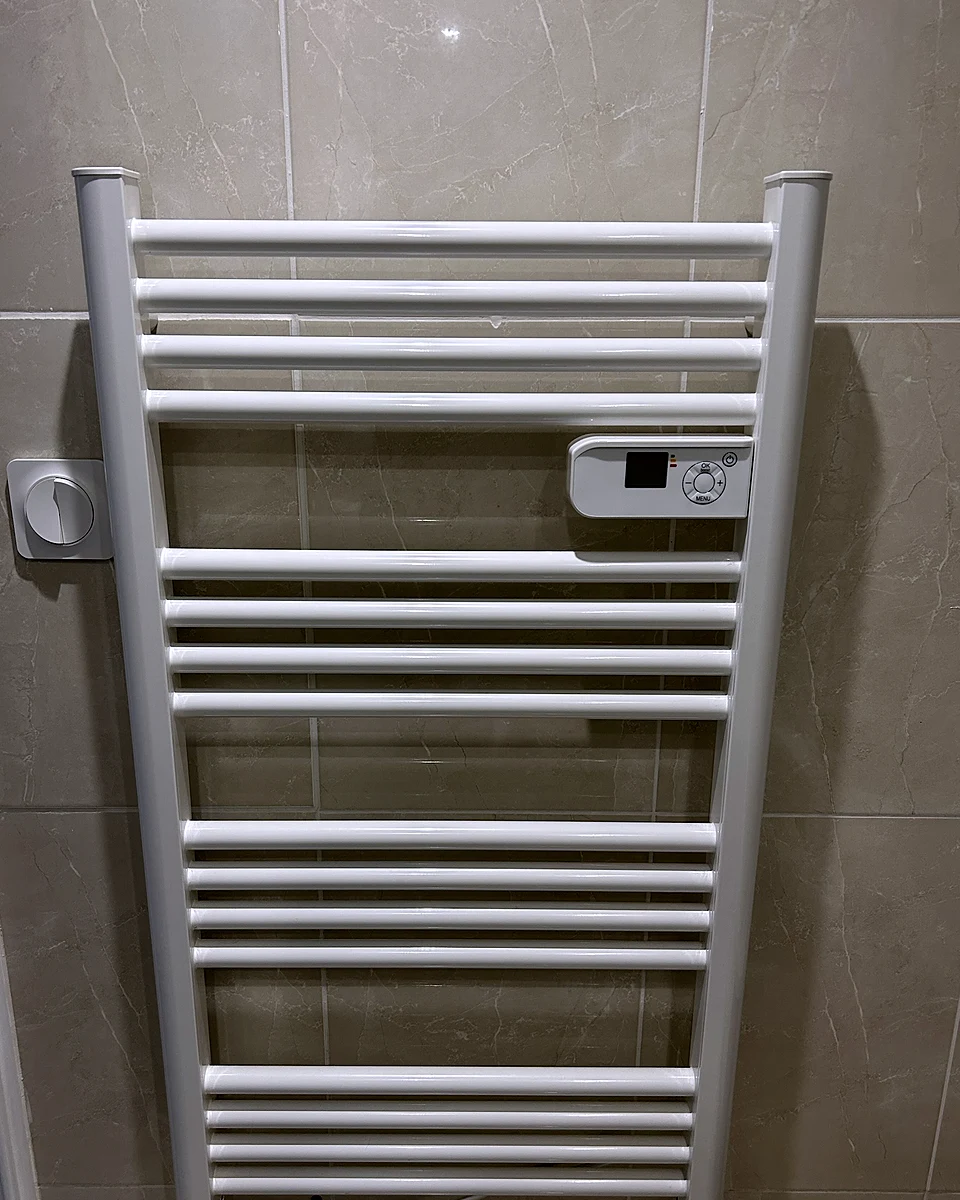
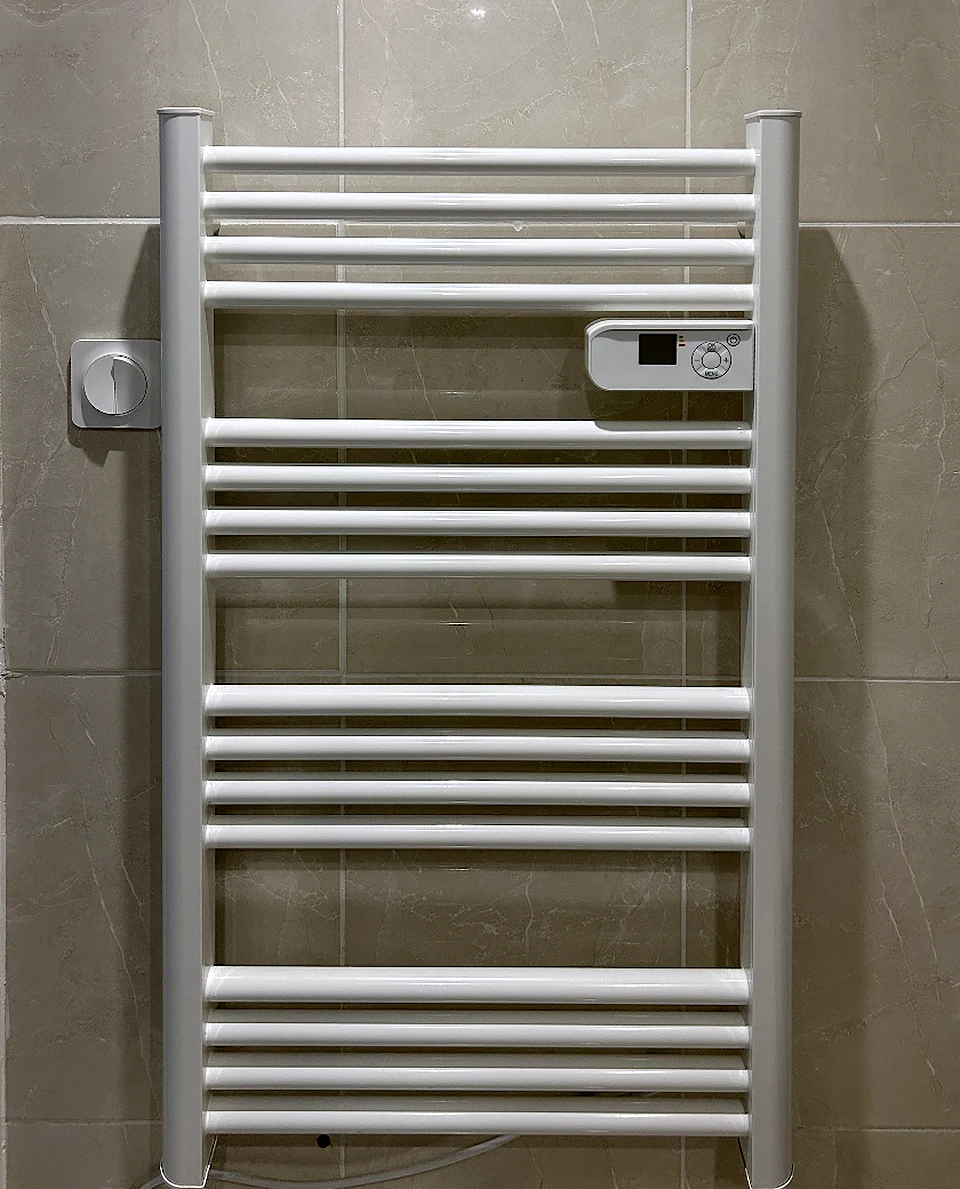
Sèche-serviette : photo redressée et retouchée
Claude-Session: https://claude.ai/code/session_01Ebj4H1RNzxuy3rhGoPVFxH

diff --git a/public/seche-serviette-cannes/index.html b/public/seche-serviette-cannes/index.html
@@ -1,3 +1,3 @@
 <!DOCTYPE html><html lang="fr">
-<head><meta charset="utf-8"><meta name="viewport" content="width=device-width,initial-scale=1,viewport-fit=cover"><title>Sèche-serviette électrique à Cannes : pose dès 120 € | Azur Volt</title><meta name="description" content="Pose de sèche-serviette électrique à Cannes : dès 120 € raccordement compris pour un appareil que vous fournissez. Vérification du circuit par Yoni."><meta name="theme-color" content="#051d31"><link rel="icon" href="/favicon.ico" sizes="any"><link rel="icon" type="image/png" sizes="32x32" href="/favicon-32.png"><link rel="icon" type="image/png" sizes="16x16" href="/favicon-16.png"><link rel="apple-touch-icon" href="/apple-touch-icon.png"><link rel="manifest" href="/site.webmanifest"><link rel="canonical" href="https://azurvolt.fr/seche-serviette-cannes/"><meta property="og:type" content="website"><meta property="og:locale" content="fr_FR"><meta property="og:site_name" content="Azur Volt"><meta property="og:title" content="Sèche-serviette électrique à Cannes : pose dès 120 € | Azur Volt"><meta property="og:description" content="Pose de sèche-serviette électrique à Cannes : dès 120 € raccordement compris pour un appareil que vous fournissez. Vérification du circuit par Yoni."><meta property="og:url" content="https://azurvolt.fr/seche-serviette-cannes/"><meta property="og:image" content="https://azurvolt.fr/social-preview-azur-volt.jpg"><meta property="og:image:width" content="1200"><meta property="og:image:height" content="630"><meta property="og:image:type" content="image/jpeg"><meta name="twitter:card" content="summary_large_image"><meta name="twitter:image" content="https://azurvolt.fr/social-preview-azur-volt.jpg"><link rel="preload" href="/fonts/bricolage-grotesque.woff" as="font" type="font/woff" crossorigin><link rel="preload" href="/fonts/figtree.woff" as="font" type="font/woff" crossorigin><link rel="stylesheet" href="/styles.css?v=15.2"><script type="application/ld+json">{"@context": "https://schema.org", "@type": "Electrician", "@id": "https://azurvolt.fr/#electrician", "name": "Azur Volt", "legalName": "Yoni Ayache", "url": "https://azurvolt.fr/", "logo": "https://azurvolt.fr/logo-azur-volt-google.jpg", "image": "https://azurvolt.fr/social-preview-azur-volt.jpg", "telephone": "+33651999517", "email": "contact@azurvolt.fr", "address": {"@type": "PostalAddress", "streetAddress": "22 avenue des Anglais", "postalCode": "06400", "addressLocality": "Cannes", "addressRegion": "Provence-Alpes-Côte d’Azur", "addressCountry": "FR"}, "priceRange": "Dépannage dès 110 €", "founder": {"@type": "Person", "name": "Yoni Ayache"}, "areaServed": [{"@type": "City", "name": "Cannes"}, {"@type": "City", "name": "Le Cannet"}, {"@type": "City", "name": "Antibes"}, {"@type": "City", "name": "Mandelieu-la-Napoule"}], "openingHoursSpecification": [{"@type": "OpeningHoursSpecification", "dayOfWeek": ["Monday", "Tuesday", "Wednesday", "Thursday", "Friday", "Saturday", "Sunday"], "opens": "08:00", "closes": "22:00"}], "sameAs": ["https://share.google/EnFr0ZRKQmdXLwL5v", "https://www.instagram.com/azurvolt/", "https://www.pagesjaunes.fr/pros/65432205"]}</script><script src="/script.js?v=15.0" defer=""></script><script type="application/ld+json">{"@context": "https://schema.org", "@type": "BreadcrumbList", "itemListElement": [{"@type": "ListItem", "position": 1, "name": "Accueil", "item": "https://azurvolt.fr/"}, {"@type": "ListItem", "position": 2, "name": "Sèche-serviette électrique à Cannes", "item": "https://azurvolt.fr/seche-serviette-cannes/"}]}</script></head><body id="top"><a class="skip" href="#main">Aller au contenu</a><div class="wire" aria-hidden="true"><i id="wire"></i></div><div class="topline"><div class="wrap"><span>Cannes et alentours, particuliers et professionnels</span><span>Dépannage et urgences 7j/7 de 8h à 22h, nuit selon disponibilité</span></div></div><header class="header"><div class="wrap nav"><a class="brand" href="/"><img src="/logo-blanc-120.png" srcset="/logo-blanc-120.png 1x, /logo-blanc%402x.png 2x" alt="Azur Volt, électricien à Cannes" width="232" height="120" fetchpriority="high"></a><nav class="desktop" aria-label="Navigation principale"><a href="/">Accueil</a><details class="nav-dropdown"><summary>Prestations</summary><div><a href="/depannage-electrique-cannes/">Dépannage électrique</a><a href="/tableau-electrique-cannes/">Tableau électrique</a><a href="/renovation-electrique-cannes/">Rénovation électrique</a><a href="/installation-electrique-cannes/">Installation électrique</a><a href="/seche-serviette-cannes/">Prises &amp; interrupteurs</a><a href="/eclairage-luminaire-cannes/">Éclairage &amp; luminaires</a><a href="/seche-serviette-cannes/">Sèche-serviette</a><a href="/mise-en-securite-electrique-cannes/">Mise en sécurité</a><a href="/gache-electrique-cannes/">Gâche électrique</a></div></details><details class="nav-dropdown"><summary>Secteur</summary><div><a href="/electricien-cannes/">Cannes</a><a href="/electricien-le-cannet/">Le Cannet</a><a href="/electricien-antibes/">Antibes</a><a href="/electricien-mandelieu-la-napoule/">Mandelieu-la-Napoule</a><a href="/zones-intervention/">Toutes les zones</a></div></details><a href="/tarifs/">Tarifs</a><a href="/#contact">Contact</a></nav><a class="header-phone" href="tel:+33651999517" aria-label="Appeler Yoni au 06 51 99 95 17"><svg aria-hidden="true" viewBox="0 0 24 24" fill="none" stroke="currentColor" stroke-width="1.7" stroke-linecap="round" stroke-linejoin="round"><path d="M22 16.9v3a2 2 0 0 1-2.2 2 19.8 19.8 0 0 1-8.6-3.1 19.5 19.5 0 0 1-6-6 19.8 19.8 0 0 1-3.1-8.7A2 2 0 0 1 4.1 2h3a2 2 0 0 1 2 1.7c.1 1 .4 2 .7 2.9a2 2 0 0 1-.5 2.1L8 10a16 16 0 0 0 6 6l1.3-1.3a2 2 0 0 1 2.1-.5c.9.3 1.9.6 2.9.7a2 2 0 0 1 1.7 2z"></path></svg><span>06 51 99 95 17</span></a><details class="mobile-menu"><summary aria-label="Ouvrir le menu"><svg aria-hidden="true" viewBox="0 0 24 24" fill="none" stroke="currentColor" stroke-width="1.7" stroke-linecap="round" stroke-linejoin="round"><path d="M4 6h16M4 12h16M4 18h16"></path></svg><span>Menu</span></summary><nav aria-label="Navigation mobile"><a href="/">Accueil</a><details class="nav-dropdown"><summary>Prestations</summary><div><a href="/depannage-electrique-cannes/">Dépannage électrique</a><a href="/tableau-electrique-cannes/">Tableau électrique</a><a href="/renovation-electrique-cannes/">Rénovation électrique</a><a href="/installation-electrique-cannes/">Installation électrique</a><a href="/seche-serviette-cannes/">Prises &amp; interrupteurs</a><a href="/eclairage-luminaire-cannes/">Éclairage &amp; luminaires</a><a href="/seche-serviette-cannes/">Sèche-serviette</a><a href="/mise-en-securite-electrique-cannes/">Mise en sécurité</a><a href="/gache-electrique-cannes/">Gâche électrique</a></div></details><details class="nav-dropdown"><summary>Secteur</summary><div><a href="/electricien-cannes/">Cannes</a><a href="/electricien-le-cannet/">Le Cannet</a><a href="/electricien-antibes/">Antibes</a><a href="/electricien-mandelieu-la-napoule/">Mandelieu-la-Napoule</a><a href="/zones-intervention/">Toutes les zones</a></div></details><a href="/tarifs/">Tarifs</a><a href="/#contact">Contact</a></nav></details></div></header><main id="main"><section class="subhero"><div class="wrap"><nav class="breadcrumb" aria-label="Fil d’Ariane"><a href="/">Accueil</a> / Sèche-serviette électrique à Cannes</nav><h1>Sèche-serviette électrique à Cannes</h1><p class="lead">Un vieux sèche-serviette à remplacer, ou un nouveau à installer ? Yoni vérifie le circuit, pose l’appareil et le raccorde.</p><div class="actions"><a class="button primary" href="tel:+33651999517">Appeler Yoni</a><a class="button secondary" href="sms:+33651999517">Envoyer un SMS</a><a class="button secondary" href="/#contact">Devis avec photo</a></div><figure class="subhero-photo"><img src="/seche-serviette-960.webp" width="960" height="1200" loading="lazy" decoding="async" alt="Sèche-serviette électrique posé par Yoni Ayache dans une salle de bain"></figure></div></section><section class="section"><div class="wrap detail-grid"><div class="detail-content"><section class="content-section"><h2>Pose et remplacement</h2><p>La pose d’un sèche-serviette électrique que vous fournissez coûte <strong>dès 120 €</strong>, raccordement compris, si le circuit existant le permet.</p><p>Une création de ligne ou une modification importante de l’installation fait l’objet d’un devis.</p></section><section class="content-section"><h2>Vos questions</h2><div class="faq-list"><details><summary>Peut-on le poser dans n’importe quelle salle de bain ?<span aria-hidden="true">+</span></summary><p>Cela dépend de l’emplacement et de l’installation existante. Yoni le vérifie avant d’intervenir.</p></details><details><summary>Dois-je fournir l’appareil ?<span aria-hidden="true">+</span></summary><p>Le tarif dès 120 € concerne un appareil que vous fournissez. Pour que Yoni s’en charge, demandez un devis avec photo.</p></details></div></section><section class="content-section"><h2>Pour aller plus loin</h2><div class="related-links"><a href="/prise-interrupteur-cannes/">Prises et interrupteurs</a><a href="/installation-electrique-cannes/">Installation électrique</a><a href="/mise-en-securite-electrique-cannes/">Mise en sécurité</a><a href="/tarifs/">Tous les tarifs</a></div></section></div><aside class="service-aside"><h2>Parlez à Yoni</h2><p>Yoni Ayache, CAP Électricien, 14 ans d’expérience dans l’électricité.</p><a class="button primary" href="tel:+33651999517">06 51 99 95 17</a><p><a href="mailto:contact@azurvolt.fr">contact@azurvolt.fr</a></p><p>Dépannage et urgences 7j/7 de 8h à 22h, nuit selon disponibilité</p></aside></div></section></main><footer class="footer"><div class="wrap"><div class="footer-top"><div><a class="footer-brand" href="/"><img src="/logo-blanc-120.png" srcset="/logo-blanc-120.png 1x, /logo-blanc%402x.png 2x" alt="Azur Volt, électricien à Cannes" width="232" height="120" loading="lazy" decoding="async"></a><p>Un électricien. Un interlocuteur.</p></div><div><span class="footer-cta">On en parle ?</span><a class="footer-number" href="tel:+33651999517">06 51 99 95 17</a><p>Yoni Ayache, 7j/7 de 8h à 22h, nuit selon disponibilité</p></div></div><div class="footer-grid"><div><h2>Contact direct</h2><a href="sms:+33651999517">Envoyer un SMS</a><a href="mailto:contact@azurvolt.fr">contact@azurvolt.fr</a><a href="/#contact">Demande avec photo</a></div><div><h2>Vos besoins</h2><a href="/tarifs/">Tarifs</a><a href="/depannage-electrique-cannes/">Dépannage électrique</a><a href="/tableau-electrique-cannes/">Tableau électrique</a><a href="/installation-electrique-cannes/">Installation électrique</a><a href="/renovation-electrique-cannes/">Rénovation électrique</a></div><div><h2>Autour de Cannes</h2><a href="/electricien-cannes/">Électricien à Cannes</a><a href="/electricien-le-cannet/">Électricien au Cannet</a><a href="/electricien-antibes/">Électricien à Antibes</a><a href="/electricien-mandelieu-la-napoule/">Électricien à Mandelieu-la-Napoule</a><a href="/zones-intervention/">Toutes les zones</a><span>Interventions à domicile et sur site</span></div><div><h2>Azur Volt</h2><span>Yoni Ayache, entrepreneur individuel</span><span>SIRET 100 179 159 00015</span><a href="https://share.google/EnFr0ZRKQmdXLwL5v" target="_blank" rel="noopener noreferrer">Voir la fiche Google<span class="sr-only"> (nouvel onglet)</span></a><a href="https://www.instagram.com/azurvolt/" target="_blank" rel="noopener noreferrer">Instagram<span class="sr-only"> (nouvel onglet)</span></a><a href="https://www.pagesjaunes.fr/pros/65432205" target="_blank" rel="noopener noreferrer">Pages Jaunes<span class="sr-only"> (nouvel onglet)</span></a></div></div><div class="footer-bottom"><span>© 2026 Azur Volt</span><nav class="footer-legal" aria-label="Informations légales"><a href="/mentions-legales/">Mentions légales</a><a href="/confidentialite/">Confidentialité</a><a href="/cookies/">Cookies</a><a href="/conditions-utilisation/">Conditions d’utilisation</a><a href="/conditions-de-vente/">Conditions de vente et rétractation</a><button type="button" class="cookie-manage" data-consent-open>Gérer les cookies</button></nav><a href="#top">Retour en haut</a></div></div></footer><nav class="mobile-actions" aria-label="Contact rapide"><a class="button primary" href="tel:+33651999517"><svg aria-hidden="true" viewBox="0 0 24 24" fill="none" stroke="currentColor" stroke-width="1.7" stroke-linecap="round" stroke-linejoin="round"><path d="M22 16.9v3a2 2 0 0 1-2.2 2 19.8 19.8 0 0 1-8.6-3.1 19.5 19.5 0 0 1-6-6 19.8 19.8 0 0 1-3.1-8.7A2 2 0 0 1 4.1 2h3a2 2 0 0 1 2 1.7c.1 1 .4 2 .7 2.9a2 2 0 0 1-.5 2.1L8 10a16 16 0 0 0 6 6l1.3-1.3a2 2 0 0 1 2.1-.5c.9.3 1.9.6 2.9.7a2 2 0 0 1 1.7 2z"></path></svg><span>Appeler</span></a><a class="button secondary" href="sms:+33651999517"><svg aria-hidden="true" viewBox="0 0 24 24" fill="none" stroke="currentColor" stroke-width="1.7" stroke-linecap="round" stroke-linejoin="round"><path d="M21 11.5a8.4 8.4 0 0 1-.9 3.8 8.5 8.5 0 0 1-7.6 4.7 8.4 8.4 0 0 1-3.8-.9L3 21l1.9-5.7a8.4 8.4 0 0 1-.9-3.8 8.5 8.5 0 0 1 4.7-7.6 8.4 8.4 0 0 1 3.8-.9h.5a8.5 8.5 0 0 1 8 8v.5z"></path></svg><span>SMS</span></a><a class="button secondary" href="/#contact"><svg aria-hidden="true" viewBox="0 0 24 24" fill="none" stroke="currentColor" stroke-width="1.7" stroke-linecap="round" stroke-linejoin="round"><path d="M14.5 4h-5L7 7H3v13h18V7h-4z"></path><circle cx="12" cy="13" r="3"></circle></svg><span>Devis / photo</span></a></nav></body>
+<head><meta charset="utf-8"><meta name="viewport" content="width=device-width,initial-scale=1,viewport-fit=cover"><title>Sèche-serviette électrique à Cannes : pose dès 120 € | Azur Volt</title><meta name="description" content="Pose de sèche-serviette électrique à Cannes : dès 120 € raccordement compris pour un appareil que vous fournissez. Vérification du circuit par Yoni."><meta name="theme-color" content="#051d31"><link rel="icon" href="/favicon.ico" sizes="any"><link rel="icon" type="image/png" sizes="32x32" href="/favicon-32.png"><link rel="icon" type="image/png" sizes="16x16" href="/favicon-16.png"><link rel="apple-touch-icon" href="/apple-touch-icon.png"><link rel="manifest" href="/site.webmanifest"><link rel="canonical" href="https://azurvolt.fr/seche-serviette-cannes/"><meta property="og:type" content="website"><meta property="og:locale" content="fr_FR"><meta property="og:site_name" content="Azur Volt"><meta property="og:title" content="Sèche-serviette électrique à Cannes : pose dès 120 € | Azur Volt"><meta property="og:description" content="Pose de sèche-serviette électrique à Cannes : dès 120 € raccordement compris pour un appareil que vous fournissez. Vérification du circuit par Yoni."><meta property="og:url" content="https://azurvolt.fr/seche-serviette-cannes/"><meta property="og:image" content="https://azurvolt.fr/social-preview-azur-volt.jpg"><meta property="og:image:width" content="1200"><meta property="og:image:height" content="630"><meta property="og:image:type" content="image/jpeg"><meta name="twitter:card" content="summary_large_image"><meta name="twitter:image" content="https://azurvolt.fr/social-preview-azur-volt.jpg"><link rel="preload" href="/fonts/bricolage-grotesque.woff" as="font" type="font/woff" crossorigin><link rel="preload" href="/fonts/figtree.woff" as="font" type="font/woff" crossorigin><link rel="stylesheet" href="/styles.css?v=15.2"><script type="application/ld+json">{"@context": "https://schema.org", "@type": "Electrician", "@id": "https://azurvolt.fr/#electrician", "name": "Azur Volt", "legalName": "Yoni Ayache", "url": "https://azurvolt.fr/", "logo": "https://azurvolt.fr/logo-azur-volt-google.jpg", "image": "https://azurvolt.fr/social-preview-azur-volt.jpg", "telephone": "+33651999517", "email": "contact@azurvolt.fr", "address": {"@type": "PostalAddress", "streetAddress": "22 avenue des Anglais", "postalCode": "06400", "addressLocality": "Cannes", "addressRegion": "Provence-Alpes-Côte d’Azur", "addressCountry": "FR"}, "priceRange": "Dépannage dès 110 €", "founder": {"@type": "Person", "name": "Yoni Ayache"}, "areaServed": [{"@type": "City", "name": "Cannes"}, {"@type": "City", "name": "Le Cannet"}, {"@type": "City", "name": "Antibes"}, {"@type": "City", "name": "Mandelieu-la-Napoule"}], "openingHoursSpecification": [{"@type": "OpeningHoursSpecification", "dayOfWeek": ["Monday", "Tuesday", "Wednesday", "Thursday", "Friday", "Saturday", "Sunday"], "opens": "08:00", "closes": "22:00"}], "sameAs": ["https://share.google/EnFr0ZRKQmdXLwL5v", "https://www.instagram.com/azurvolt/", "https://www.pagesjaunes.fr/pros/65432205"]}</script><script src="/script.js?v=15.0" defer=""></script><script type="application/ld+json">{"@context": "https://schema.org", "@type": "BreadcrumbList", "itemListElement": [{"@type": "ListItem", "position": 1, "name": "Accueil", "item": "https://azurvolt.fr/"}, {"@type": "ListItem", "position": 2, "name": "Sèche-serviette électrique à Cannes", "item": "https://azurvolt.fr/seche-serviette-cannes/"}]}</script></head><body id="top"><a class="skip" href="#main">Aller au contenu</a><div class="wire" aria-hidden="true"><i id="wire"></i></div><div class="topline"><div class="wrap"><span>Cannes et alentours, particuliers et professionnels</span><span>Dépannage et urgences 7j/7 de 8h à 22h, nuit selon disponibilité</span></div></div><header class="header"><div class="wrap nav"><a class="brand" href="/"><img src="/logo-blanc-120.png" srcset="/logo-blanc-120.png 1x, /logo-blanc%402x.png 2x" alt="Azur Volt, électricien à Cannes" width="232" height="120" fetchpriority="high"></a><nav class="desktop" aria-label="Navigation principale"><a href="/">Accueil</a><details class="nav-dropdown"><summary>Prestations</summary><div><a href="/depannage-electrique-cannes/">Dépannage électrique</a><a href="/tableau-electrique-cannes/">Tableau électrique</a><a href="/renovation-electrique-cannes/">Rénovation électrique</a><a href="/installation-electrique-cannes/">Installation électrique</a><a href="/seche-serviette-cannes/">Prises &amp; interrupteurs</a><a href="/eclairage-luminaire-cannes/">Éclairage &amp; luminaires</a><a href="/seche-serviette-cannes/">Sèche-serviette</a><a href="/mise-en-securite-electrique-cannes/">Mise en sécurité</a><a href="/gache-electrique-cannes/">Gâche électrique</a></div></details><details class="nav-dropdown"><summary>Secteur</summary><div><a href="/electricien-cannes/">Cannes</a><a href="/electricien-le-cannet/">Le Cannet</a><a href="/electricien-antibes/">Antibes</a><a href="/electricien-mandelieu-la-napoule/">Mandelieu-la-Napoule</a><a href="/zones-intervention/">Toutes les zones</a></div></details><a href="/tarifs/">Tarifs</a><a href="/#contact">Contact</a></nav><a class="header-phone" href="tel:+33651999517" aria-label="Appeler Yoni au 06 51 99 95 17"><svg aria-hidden="true" viewBox="0 0 24 24" fill="none" stroke="currentColor" stroke-width="1.7" stroke-linecap="round" stroke-linejoin="round"><path d="M22 16.9v3a2 2 0 0 1-2.2 2 19.8 19.8 0 0 1-8.6-3.1 19.5 19.5 0 0 1-6-6 19.8 19.8 0 0 1-3.1-8.7A2 2 0 0 1 4.1 2h3a2 2 0 0 1 2 1.7c.1 1 .4 2 .7 2.9a2 2 0 0 1-.5 2.1L8 10a16 16 0 0 0 6 6l1.3-1.3a2 2 0 0 1 2.1-.5c.9.3 1.9.6 2.9.7a2 2 0 0 1 1.7 2z"></path></svg><span>06 51 99 95 17</span></a><details class="mobile-menu"><summary aria-label="Ouvrir le menu"><svg aria-hidden="true" viewBox="0 0 24 24" fill="none" stroke="currentColor" stroke-width="1.7" stroke-linecap="round" stroke-linejoin="round"><path d="M4 6h16M4 12h16M4 18h16"></path></svg><span>Menu</span></summary><nav aria-label="Navigation mobile"><a href="/">Accueil</a><details class="nav-dropdown"><summary>Prestations</summary><div><a href="/depannage-electrique-cannes/">Dépannage électrique</a><a href="/tableau-electrique-cannes/">Tableau électrique</a><a href="/renovation-electrique-cannes/">Rénovation électrique</a><a href="/installation-electrique-cannes/">Installation électrique</a><a href="/seche-serviette-cannes/">Prises &amp; interrupteurs</a><a href="/eclairage-luminaire-cannes/">Éclairage &amp; luminaires</a><a href="/seche-serviette-cannes/">Sèche-serviette</a><a href="/mise-en-securite-electrique-cannes/">Mise en sécurité</a><a href="/gache-electrique-cannes/">Gâche électrique</a></div></details><details class="nav-dropdown"><summary>Secteur</summary><div><a href="/electricien-cannes/">Cannes</a><a href="/electricien-le-cannet/">Le Cannet</a><a href="/electricien-antibes/">Antibes</a><a href="/electricien-mandelieu-la-napoule/">Mandelieu-la-Napoule</a><a href="/zones-intervention/">Toutes les zones</a></div></details><a href="/tarifs/">Tarifs</a><a href="/#contact">Contact</a></nav></details></div></header><main id="main"><section class="subhero"><div class="wrap"><nav class="breadcrumb" aria-label="Fil d’Ariane"><a href="/">Accueil</a> / Sèche-serviette électrique à Cannes</nav><h1>Sèche-serviette électrique à Cannes</h1><p class="lead">Un vieux sèche-serviette à remplacer, ou un nouveau à installer ? Yoni vérifie le circuit, pose l’appareil et le raccorde.</p><div class="actions"><a class="button primary" href="tel:+33651999517">Appeler Yoni</a><a class="button secondary" href="sms:+33651999517">Envoyer un SMS</a><a class="button secondary" href="/#contact">Devis avec photo</a></div><figure class="subhero-photo"><img src="/seche-serviette-960.webp" width="960" height="1189" loading="lazy" decoding="async" alt="Sèche-serviette électrique posé par Yoni Ayache dans une salle de bain"></figure></div></section><section class="section"><div class="wrap detail-grid"><div class="detail-content"><section class="content-section"><h2>Pose et remplacement</h2><p>La pose d’un sèche-serviette électrique que vous fournissez coûte <strong>dès 120 €</strong>, raccordement compris, si le circuit existant le permet.</p><p>Une création de ligne ou une modification importante de l’installation fait l’objet d’un devis.</p></section><section class="content-section"><h2>Vos questions</h2><div class="faq-list"><details><summary>Peut-on le poser dans n’importe quelle salle de bain ?<span aria-hidden="true">+</span></summary><p>Cela dépend de l’emplacement et de l’installation existante. Yoni le vérifie avant d’intervenir.</p></details><details><summary>Dois-je fournir l’appareil ?<span aria-hidden="true">+</span></summary><p>Le tarif dès 120 € concerne un appareil que vous fournissez. Pour que Yoni s’en charge, demandez un devis avec photo.</p></details></div></section><section class="content-section"><h2>Pour aller plus loin</h2><div class="related-links"><a href="/prise-interrupteur-cannes/">Prises et interrupteurs</a><a href="/installation-electrique-cannes/">Installation électrique</a><a href="/mise-en-securite-electrique-cannes/">Mise en sécurité</a><a href="/tarifs/">Tous les tarifs</a></div></section></div><aside class="service-aside"><h2>Parlez à Yoni</h2><p>Yoni Ayache, CAP Électricien, 14 ans d’expérience dans l’électricité.</p><a class="button primary" href="tel:+33651999517">06 51 99 95 17</a><p><a href="mailto:contact@azurvolt.fr">contact@azurvolt.fr</a></p><p>Dépannage et urgences 7j/7 de 8h à 22h, nuit selon disponibilité</p></aside></div></section></main><footer class="footer"><div class="wrap"><div class="footer-top"><div><a class="footer-brand" href="/"><img src="/logo-blanc-120.png" srcset="/logo-blanc-120.png 1x, /logo-blanc%402x.png 2x" alt="Azur Volt, électricien à Cannes" width="232" height="120" loading="lazy" decoding="async"></a><p>Un électricien. Un interlocuteur.</p></div><div><span class="footer-cta">On en parle ?</span><a class="footer-number" href="tel:+33651999517">06 51 99 95 17</a><p>Yoni Ayache, 7j/7 de 8h à 22h, nuit selon disponibilité</p></div></div><div class="footer-grid"><div><h2>Contact direct</h2><a href="sms:+33651999517">Envoyer un SMS</a><a href="mailto:contact@azurvolt.fr">contact@azurvolt.fr</a><a href="/#contact">Demande avec photo</a></div><div><h2>Vos besoins</h2><a href="/tarifs/">Tarifs</a><a href="/depannage-electrique-cannes/">Dépannage électrique</a><a href="/tableau-electrique-cannes/">Tableau électrique</a><a href="/installation-electrique-cannes/">Installation électrique</a><a href="/renovation-electrique-cannes/">Rénovation électrique</a></div><div><h2>Autour de Cannes</h2><a href="/electricien-cannes/">Électricien à Cannes</a><a href="/electricien-le-cannet/">Électricien au Cannet</a><a href="/electricien-antibes/">Électricien à Antibes</a><a href="/electricien-mandelieu-la-napoule/">Électricien à Mandelieu-la-Napoule</a><a href="/zones-intervention/">Toutes les zones</a><span>Interventions à domicile et sur site</span></div><div><h2>Azur Volt</h2><span>Yoni Ayache, entrepreneur individuel</span><span>SIRET 100 179 159 00015</span><a href="https://share.google/EnFr0ZRKQmdXLwL5v" target="_blank" rel="noopener noreferrer">Voir la fiche Google<span class="sr-only"> (nouvel onglet)</span></a><a href="https://www.instagram.com/azurvolt/" target="_blank" rel="noopener noreferrer">Instagram<span class="sr-only"> (nouvel onglet)</span></a><a href="https://www.pagesjaunes.fr/pros/65432205" target="_blank" rel="noopener noreferrer">Pages Jaunes<span class="sr-only"> (nouvel onglet)</span></a></div></div><div class="footer-bottom"><span>© 2026 Azur Volt</span><nav class="footer-legal" aria-label="Informations légales"><a href="/mentions-legales/">Mentions légales</a><a href="/confidentialite/">Confidentialité</a><a href="/cookies/">Cookies</a><a href="/conditions-utilisation/">Conditions d’utilisation</a><a href="/conditions-de-vente/">Conditions de vente et rétractation</a><button type="button" class="cookie-manage" data-consent-open>Gérer les cookies</button></nav><a href="#top">Retour en haut</a></div></div></footer><nav class="mobile-actions" aria-label="Contact rapide"><a class="button primary" href="tel:+33651999517"><svg aria-hidden="true" viewBox="0 0 24 24" fill="none" stroke="currentColor" stroke-width="1.7" stroke-linecap="round" stroke-linejoin="round"><path d="M22 16.9v3a2 2 0 0 1-2.2 2 19.8 19.8 0 0 1-8.6-3.1 19.5 19.5 0 0 1-6-6 19.8 19.8 0 0 1-3.1-8.7A2 2 0 0 1 4.1 2h3a2 2 0 0 1 2 1.7c.1 1 .4 2 .7 2.9a2 2 0 0 1-.5 2.1L8 10a16 16 0 0 0 6 6l1.3-1.3a2 2 0 0 1 2.1-.5c.9.3 1.9.6 2.9.7a2 2 0 0 1 1.7 2z"></path></svg><span>Appeler</span></a><a class="button secondary" href="sms:+33651999517"><svg aria-hidden="true" viewBox="0 0 24 24" fill="none" stroke="currentColor" stroke-width="1.7" stroke-linecap="round" stroke-linejoin="round"><path d="M21 11.5a8.4 8.4 0 0 1-.9 3.8 8.5 8.5 0 0 1-7.6 4.7 8.4 8.4 0 0 1-3.8-.9L3 21l1.9-5.7a8.4 8.4 0 0 1-.9-3.8 8.5 8.5 0 0 1 4.7-7.6 8.4 8.4 0 0 1 3.8-.9h.5a8.5 8.5 0 0 1 8 8v.5z"></path></svg><span>SMS</span></a><a class="button secondary" href="/#contact"><svg aria-hidden="true" viewBox="0 0 24 24" fill="none" stroke="currentColor" stroke-width="1.7" stroke-linecap="round" stroke-linejoin="round"><path d="M14.5 4h-5L7 7H3v13h18V7h-4z"></path><circle cx="12" cy="13" r="3"></circle></svg><span>Devis / photo</span></a></nav></body>
 </html>
